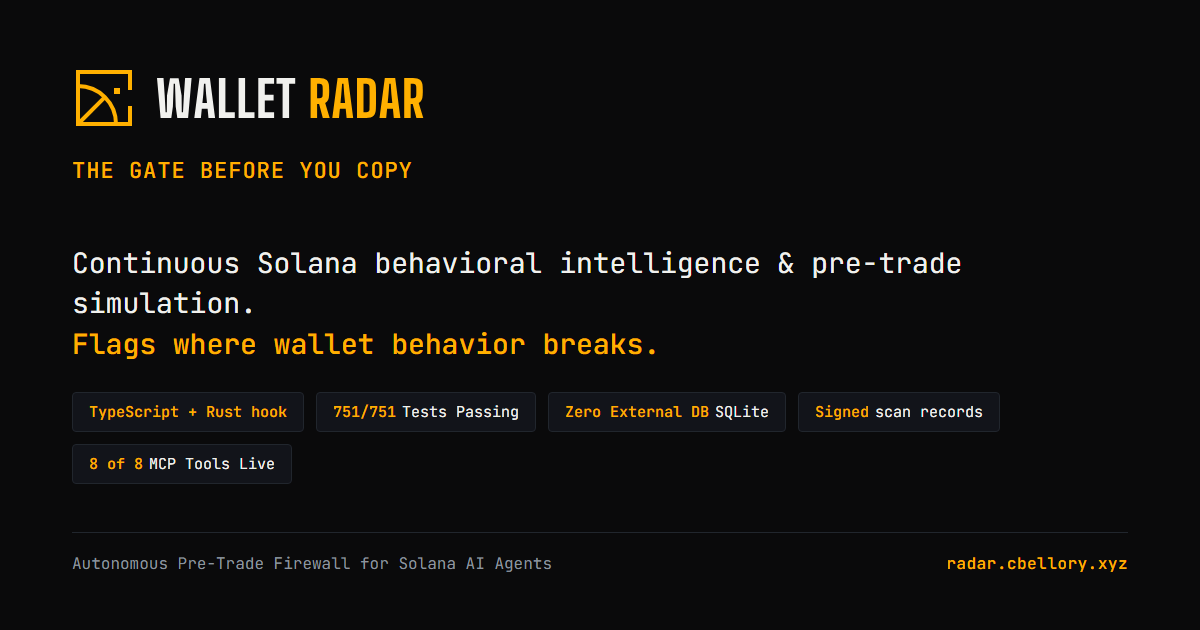
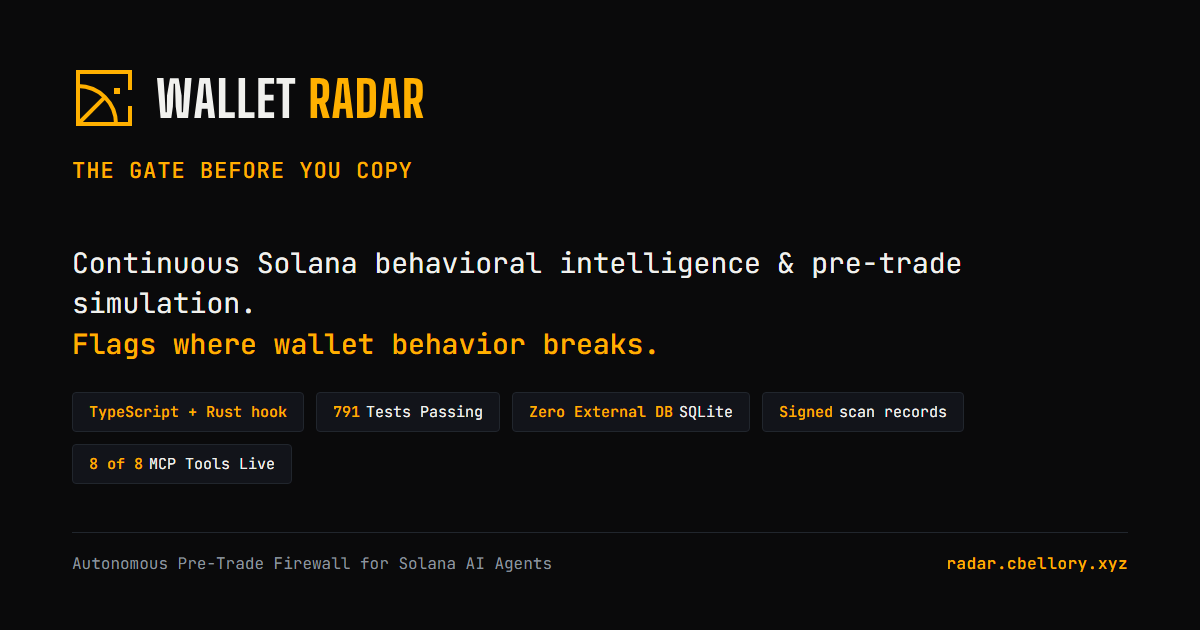
docs: update test counts to 791/46, clarify card claims, and refresh og images

Changed region(s): [[0.2775, 0.6333, 0.8325, 0.6635]]

diff --git a/docs/index.html b/docs/index.html
@@ -66,7 +66,7 @@ footer .gh{color:var(--muted);font-family:Consolas,monospace}
     <span class="chip"><b>Built-in</b> SQLite · Zero External DB</span>
     <span class="chip"><b>ZK</b> on-chain oracle</span>
     <span class="chip"><b>9</b> behavioral rules</span>
-    <span class="chip"><b>751/751</b> tests passing</span>
+    <span class="chip"><b>791 passing</b>, 5 documented known gaps (todo), 46 suites</span>
     <span class="chip"><b>MCP</b> server</span>
   </div>
 </header>
@@ -114,10 +114,10 @@ footer .gh{color:var(--muted);font-family:Consolas,monospace}
   <h2>Built in-window: the Colosseum leap</h2>
   <div class="sub">Beyond the gate — signed scan records and a Light Protocol compressed-ledger integration are implemented; writing them to a live cluster has not been verified (see docs/KNOWN-ISSUES.md). The radar speaks x402, and exposes itself as an agent SDK, a one-tap Solana action, a live dashboard (radar view of detected anomalies, a recorded replay (?demo=replay), the on-chain hook log, and the independent-test timeline; shows behavioral signals, not accuracy), and a Token-2022 transfer hook.</div>
   <div class="pipeline">
-    <div class="step"><div class="k">ZK ORACLE</div><b>On-chain scan ledger</b><span>signed scan records and a Light Protocol compressed-ledger integration are implemented; writing them to a live cluster has not been verified (see docs/KNOWN-ISSUES.md)</span></div>
-    <div class="step"><div class="k">AGENT SDK</div><b>createRadarClient()</b><span>A JS/TS client that calls the x402 server, auto-pays USDC, and returns the result with its on-chain ledger signature.</span></div>
+    <div class="step"><div class="k">ZK ORACLE</div><b>Signed scan ledger</b><span>signed scan records and a Light Protocol compressed-ledger integration are implemented; writing them to a live cluster has not been verified (see docs/KNOWN-ISSUES.md)</span></div>
+    <div class="step"><div class="k">AGENT SDK</div><b>createRadarClient()</b><span>A JS/TS client that calls the x402 server, auto-pays USDC, and returns the result with a signed scan record.</span></div>
     <div class="step"><div class="k">BLINK</div><b>One-tap scan</b><span>A Solana Action / Blink — "Radar scan &lt;addr&gt;" — x402 pay, verdict back, straight from the wallet UI.</span></div>
-    <div class="step"><div class="k">HOOK</div><b>Scan-on-transfer</b><span>A Token-2022 transfer hook scores the transfer on-chain (oracle PDA) — the gate at the moment of transfer.</span></div>
+    <div class="step"><div class="k">HOOK</div><b>Scan-on-transfer</b><span>A Token-2022 transfer hook enforces, at the moment of transfer, a verdict the operator wrote on-chain (devnet).</span></div>
   </div>
   <div style="text-align:center;margin-top:28px;padding:0 16px">
     <a href="dashboard-preview.html" class="chip" style="display:inline-block;padding:9px 20px;font-size:14px;color:var(--ink);background:var(--panel);border:1px solid var(--accent);border-radius:6px;text-decoration:none;font-weight:600">Dashboard preview</a>

diff --git a/scripts/render-video.py b/scripts/render-video.py
@@ -221,7 +221,7 @@ def render_slide_4(lang="ru"):
         ("N/A", "WALK-FORWARD ACCURACY", "Retracted -- independent validation not yet complete", TEXT_MUTED),
         ("N/A", "FALSE BLOCKS ON DEX", "Retracted -- independent validation not yet complete", TEXT_MUTED),
         ("~150 MB", "EDGE NODE RAM FOOTPRINT (RSS, stage 9C measurement)", "Physical Orange Pi (ARM64, Armbian) daemon, continuous monitoring", AMBER),
-        ("751", "PASSING UNIT TESTS", "0 failures · CI regression suite (not an accuracy claim)", GREEN)
+        ("791", "PASSING UNIT TESTS", "5 documented known gaps (todo), 46 suites · CI regression suite", GREEN)
     ]
 
     for i, (val, lbl, subtext, col) in enumerate(stats):

diff --git a/docs/KNOWN-ISSUES.md b/docs/KNOWN-ISSUES.md
@@ -34,7 +34,7 @@ a separate, future change.
   to avoid breaking `test/regime.test.ts`, which also asserts against
   `src/http-server.ts`/`src/mcp.ts` text that stage 9D is not permitted to
   change).
-- **Status:** fixed in branch fixes-a (commit bb1e9bf), not deployed.
+- **Status:** fixed in main (originally branch fixes-a, commit bb1e9bf), not yet deployed to the public servers.
 
 ## DORMANT_ACTIVE observation: the default 7-day trust window may itself manufacture the "dormancy" gap
 
@@ -64,7 +64,7 @@ a separate, future change.
   *any* continuously-active wallet, not just a genuinely dormant one — but
   this has only been reproduced offline, against a synthetic fixture, this
   stage. It has not been checked against real wallet histories.
-- **Status:** fixed in branch `fixes-b` (commit bcdcef1), not deployed.
+- **Status:** fixed in main (originally branch `fixes-b`, commit bcdcef1), not yet deployed to the public servers.
   Added `RadarConfig.dormantMeasure` ("newest" default, unchanged; "first" —
   measures the gap to the evaluated batch's EARLIEST tx instead) and wired
   `"first"` into `trust.ts`'s one `detectAnomalies` call specifically. The
@@ -95,7 +95,7 @@ a separate, future change.
   `TAINTED_FUNDING` will never fire for it.
 - Documented next to the rule's description in README.md (§"9 Deterministic
   Anomaly Rules", the `TAINTED_FUNDING` paragraph).
-- **Status:** fixed in branch `fixes-b` (commit 54a8c6f), not deployed.
+- **Status:** fixed in main (originally branch `fixes-b`, commit 54a8c6f), not yet deployed to the public servers.
   `checkFundingSource` now scans every incoming native transfer in the
   supplied history, firing on the earliest one matching `KNOWN_EXPLOITERS`
   (unmodified) rather than stopping at the first incoming transfer found
@@ -140,7 +140,7 @@ a separate, future change.
   (confirmed via `grep -n "gate-copy" src/x402server.ts` — no match) — so
   it is both unauthenticated-by-default and free, while still incurring
   real Helius API cost.
-- **Status:** fixed in branch fixes-a (commit f816910), not deployed.
+- **Status:** fixed in main (originally branch fixes-a, commit f816910), not yet deployed to the public servers.
 - Update (branch `secaudit2`): the first bullet is stale for the mutating routes. With no `RADAR_API_TOKEN` they now answer 403 instead of being open; see H3 in the "Security audit, branch `secaudit2`" section at the end of this file.
 
 ## `fetchMintMetadata`/`getTokenLargestAccounts` failure silently skips TOXIC_MINT for that mint (fails open)
@@ -153,7 +153,7 @@ a separate, future change.
   // Fetch failed or no metadata: skip rule for this mint` — a mint whose
   metadata fetch failed receives no TOXIC_MINT evaluation at all,
   regardless of its actual risk.
-- **Status:** fixed in branch `fixes-b` (commit 69c1120), not deployed, for
+- **Status:** fixed in main (originally branch `fixes-b`, commit 69c1120), not yet deployed to the public servers, for
   `/gate-copy` and `radar_gate_copy` specifically (the single-mint
   `fetchMintMetadata` lookup these use, not `fetchSwapMintRisk`'s
   batch-map path used by `/scan`/`/trust`, which this entry's `analyzer.ts:780`
@@ -178,7 +178,7 @@ a separate, future change.
   comparing raw token quantities restricted to `MAJOR_MINTS` (SOL/USDC/
   USDT) only (`analyzer.ts:661-681`) — non-major mints get no LARGE_SWAP
   detection at all during a price-feed outage, not stale hardcoded prices.
-- **Status:** fixed in branch `fixes-b` (commit 3feeaba), not deployed.
+- **Status:** fixed in main (originally branch `fixes-b`, commit 3feeaba), not yet deployed to the public servers.
   `BLUECHIP_FALLBACK_PRICES` is explicitly commented as dead-in-production
   (kept only for `scripts/audit/*.mjs`'s offline historical replay, which
   legitimately needs a frozen, reproducible price set — not wired into any
@@ -201,7 +201,7 @@ a separate, future change.
   halt, `transferHook` — arbitrary on-transfer logic, `defaultAccountState`
   — new accounts start frozen) are not read or evaluated by TOXIC_MINT at
   all.
-- **Status:** fixed in branch `fixes-b` (commit 73395bc), not deployed, for
+- **Status:** fixed in main (originally branch `fixes-b`, commit 73395bc), not yet deployed to the public servers, for
   the RPC `getAccountInfo` jsonParsed fallback path specifically (the
   Helius DAS `getAsset` path, `parseDasAssetResponse`, is NOT extended —
   its Token-2022 extensions jsonParsed shape was not independently
@@ -236,7 +236,7 @@ a separate, future change.
   prevents a duplicate database row, not duplicate delivery.
 - Confirmed by reading the code; not exercised under real multi-process
   concurrency (out of scope, no network/process orchestration this stage).
-- **Status:** fixed in branch fixes-a (commit 0e50956), not deployed.
+- **Status:** fixed in main (originally branch fixes-a, commit 0e50956), not yet deployed to the public servers.
 
 ## Payment-verification error message may include `err.message`; whether it can contain the RPC URL (with the API key) is unconfirmed
 
@@ -251,7 +251,7 @@ a separate, future change.
   request URL (and thus the embedded key) — NOT VERIFIED: confirming this
   requires triggering a real network failure against a key-bearing URL,
   which this stage's rules do not permit.
-- **Status:** fixed in branch fixes-a (commit 27145ac), not deployed.
+- **Status:** fixed in main (originally branch fixes-a, commit 27145ac), not yet deployed to the public servers.
 
 ## Transfer Hook: single program upgrade authority, single per-mint config authority, no explicit risk_score bound
 
@@ -295,7 +295,7 @@ a separate, future change.
      `riskScore` (`:68`).
   5. `test/defense.test.ts:62` — "escalates to gated at risk >= gated
      threshold" — same pattern with `DEFENSE_THRESHOLDS.gated` (`:63`).
-- **Status:** fixed in branch fixes-a (commit e0dc8d9), not deployed.
+- **Status:** fixed in main (originally branch fixes-a, commit e0dc8d9), not yet deployed to the public servers.
 
 ## `npm audit`: 12 known vulnerabilities in the dependency tree (9 moderate, 3 high)
 
@@ -405,7 +405,7 @@ responses, user input) through those import sites:
 - HSTS: `Strict-Transport-Security` header is nowhere set in the application (`grep -rn "Strict-Transport-Security" src/` — zero matches); whether it is enabled at the Cloudflare level — per user observation, not enabled on the public server.
 - CORS: `Access-Control-Allow-Origin: *` confirmed by reading code — `src/config.ts:71`, active when `RADAR_CORS_ORIGINS` is not set.
 - Revenue via `/economics` on the public server at the time of user check: 0.005 USDC (single payment) — user observation, not measured by this session.
-- **Status:** fixed in branch fixes-a (commit f816910), not deployed. See
+- **Status:** fixed in main (originally branch fixes-a, commit f816910), not yet deployed to the public servers. See
   `docs/DEPLOY-CHECKLIST.md` (added in branch `fixes-b`) for the full set of
   env vars and verification steps for a public-facing deployment, including
   the explicit list of routes (`/dashboard`, `/economics`, `/trust-proof`,
@@ -419,7 +419,7 @@ responses, user input) through those import sites:
 - (a) Sole payment in the recipient history of `F6wWPy4c3fXTJDqU19Nax8FhQumeMcsSVpD2YwxLpBNR`: 0.005 USDC, 2026-09-18, payer `3fNNY9iEvzmfqt4gTdEmvRKNa9G3mKkHq523uS5t5eYh` (labeled "x402 Payer" in `src/daily-digest.ts:24` — line number verified via `git grep -n "x402 Payer" -- src/daily-digest.ts`, matches). The payment confirms that the payment pipeline (proof → verify → settle) executes on a real transaction; this is **not** external revenue — sole known payment across all time, from the operator's own demo wallet (per project notes).
 - (b) Upgrade authority of the Transfer Hook program on devnet (`4bDZPMF9j3Jm6rUVofT3be6JH67C1tRFBff9MnrsE2EY`) — regular key: `owner` = System Program, `space` = 0, no indication of multisig (Squads, etc.). Not re-verified in this session (network access was not performed in this stage) — source: report 11E.
 - (c) Typo in address: `src/daily-digest.ts:24` contains `"3fNNuJcvV2bYmrh7XjTq7u22C7V6F2qXq8pE4jM5eYh"` — 43 characters. Directly verified in this session (base58 decoding): this string decodes to **31 bytes**, not 32 as required for a valid Solana address; the actual payer address (44 characters, decodes to 32 bytes) is `3fNNY9iEvzmfqt4gTdEmvRKNa9G3mKkHq523uS5t5eYh` (see item (a) above). The strings differ, though visually similar (shared prefix `3fNN`, shared suffix `5eYh`). The same invalid address in the `radar-watch` watchlist produces a Helius 400 error every 5 minutes (per report 11E, not reproduced in this session — network was not used).
-- **Status:** fixed in branch fixes-a (commit 4478183), not deployed. Branch
+- **Status:** fixed in main (originally branch fixes-a, commit 4478183), not yet deployed to the public servers. Branch
   `fixes-b` (commit 295cb24) separately closes the general class of this bug:
   `isValidBase58` (the check used everywhere before `fixes-b`) only verified
   the base58 alphabet and a 32-44 character length range, so a 43-44
@@ -439,7 +439,7 @@ responses, user input) through those import sites:
   - Server now reads `RADAR_X402_COMMITMENT` ("confirmed" or "finalized", default "confirmed"; invalid values logged with warning and fallback to "confirmed"), and passes `commitment` to `getTransaction`.
   - When RPC returns `null`, server retries up to 3 times with 1-second pause (only if signature matches 86-90 base58 characters; malformed signatures fail immediately without retries) before returning 402 with hint `"Transaction not found on-chain (retry in a few seconds if you just paid)"`.
   - SDK polls `getSignatureStatuses` for up to 20 seconds after transaction submission until desired `commitment` is reached, and retries 402 "not found" responses up to 3 times with 2-second delay.
-- **Status:** fixed in branch fixes-c (commit f888112), not deployed. Verified in test suite (`test/x402.test.ts`, `test/sdk.test.ts`, `test/adversarial.test.ts`).
+- **Status:** fixed in main (originally branch fixes-c, commit f888112), not yet deployed to the public servers. Verified in test suite (`test/x402.test.ts`, `test/sdk.test.ts`, `test/adversarial.test.ts`).
 
 ## POST /analyze and 500: Missing input validation prior to payment and internal error leakage
 
@@ -451,7 +451,7 @@ responses, user input) through those import sites:
   - Handler input errors return HTTP 400; unexpected errors return HTTP 500 `"Internal server error"` without internal details. `isInputError` strictly classifies errors by `status === 400`, `statusCode === 400`, or `name === "ValidationError"` / `InputError"` (no message regex matching).
   - Responses with `"paymentVerified": true` and retry hint guarantee no `"api-key"` or `"http"` leakage.
   - If payment is verified but handler fails, response sets `"paymentVerified": true` and hint `"retry with the same signature within <secondsLeft>s"`, keeping the payment unspent (`settled_payments` not marked) so retrying with a corrected body succeeds without re-paying.
-- **Status:** fixed in branch fixes-c (commit b2a85e1, commit 178ee43), not deployed. Verified in test suite (`test/x402.test.ts`, `test/sdk.test.ts`).
+- **Status:** fixed in main (originally branch fixes-c, commit b2a85e1, commit 178ee43), not yet deployed to the public servers. Verified in test suite (`test/x402.test.ts`, `test/sdk.test.ts`).
 
 ## /economics displays operator test payments rather than external protocol revenue
 
@@ -492,7 +492,7 @@ documented there as `todo` tests.
   `maxPaymentUsdc` (default 0.05), USDC only, recipient must equal the configured `recipient` when one is configured.
 - **Note for operators:** a server price above 0.05 USDC (for example `RADAR_SCAN_PRICE_USDC` raised) is now refused
   by default; the client must pass a higher `maxPaymentUsdc`.
-- **Status:** fixed in branch secaudit2 (commit 48e2a3f), not deployed. Test `test/secaudit-sdk-payment.test.ts`.
+- **Status:** fixed in main (originally branch secaudit2, commit 48e2a3f), not yet deployed to the public servers. Test `test/secaudit-sdk-payment.test.ts`.
 
 ### H2 (high): unauthenticated `/dashboard` and `/api/ledger` caused unbounded upstream work and memory growth
 
@@ -501,7 +501,7 @@ documented there as `todo` tests.
   (`src/oracle/ledger.ts`), keyed by an attacker-chosen string.
 - Reachable by any HTTP client in the default configuration when the dashboard route is served.
 - Fix: base58 validation (HTTP 400) before any query on both routes; `anchorCache` capped at 1000 entries.
-- **Status:** fixed in branch secaudit2 (commit 0e38c15), not deployed. Test `test/secaudit-ledger-dos.test.ts`.
+- **Status:** fixed in main (originally branch secaudit2, commit 0e38c15), not yet deployed to the public servers. Test `test/secaudit-ledger-dos.test.ts`.
 
 ### H3 (high): mutating endpoints were open without `RADAR_API_TOKEN`
 
@@ -514,7 +514,7 @@ documented there as `todo` tests.
   `docs/DEPLOY-CHECKLIST.md` section 2a for the callers found in this repository.
 - Statements elsewhere in this file and in `README.md` that every route is authorized without a token are stale for
   these four routes.
-- **Status:** fixed in branch secaudit2 (commit 306ab78), not deployed. Test `test/secaudit-mutating-auth.test.ts`.
+- **Status:** fixed in main (originally branch secaudit2, commit 306ab78), not yet deployed to the public servers. Test `test/secaudit-mutating-auth.test.ts`.
 
 ### H4 (high, only with non-default configuration): anonymous `POST /scan` triggered operator-signed on-chain writes
 
@@ -526,7 +526,7 @@ documented there as `todo` tests.
 - The paid flow in `src/x402server.ts` is unchanged (the write follows a verified payment). The MCP server is
   stdio-only, so its caller is the local client.
 - The oracle-memo branch shares the gate but has no test (it would need network); the hook-bridge branch is tested.
-- **Status:** fixed in branch secaudit2 (commit 2229619), not deployed. Test `test/secaudit-onchain-gate.test.ts`.
+- **Status:** fixed in main (originally branch secaudit2, commit 2229619), not yet deployed to the public servers. Test `test/secaudit-onchain-gate.test.ts`.
 
 ### M1 (medium; high with `RADAR_WATCH=1`): `/scan` enrolled any wallet in the watch loop
 
@@ -540,7 +540,7 @@ documented there as `todo` tests.
   column added and **every existing row is set to watched=1**, so the current watch list is preserved.
 - **Behaviour change:** `radar scan <wallet>` (CLI) no longer adds the wallet to the watch list; use `radar add`.
   `hasWallet()` still means "a row exists" (used by `radar report` / `radar history`).
-- **Status:** fixed in branch secaudit2 (commit 061d7c7), not deployed. Test `test/secaudit-watched.test.ts`.
+- **Status:** fixed in main (originally branch secaudit2, commit 061d7c7), not yet deployed to the public servers. Test `test/secaudit-watched.test.ts`.
 
 ### M2 (medium): Blink complete route could be replayed concurrently
 
@@ -550,7 +550,7 @@ documented there as `todo` tests.
 - Fix: shares `inFlightPayments` with the main paid flow (released in `finally`) and rejects the loser of the INSERT
   race. Test: 5 concurrent requests with one signature give exactly one 200 (it returned five before the fix).
 - The in-flight set is still per-process (see "x402 replay protection is per-process" above).
-- **Status:** fixed in branch secaudit2 (commit a1dbeb6), not deployed. Test `test/secaudit-blink-replay.test.ts`.
+- **Status:** fixed in main (originally branch secaudit2, commit a1dbeb6), not yet deployed to the public servers. Test `test/secaudit-blink-replay.test.ts`.
 
 ## Found, not fixed
 

diff --git a/README.md b/README.md
@@ -4,7 +4,7 @@
 
 > **Continuous behavioral intelligence, pre-trade simulation, and on-chain hard enforcement for the autonomous Solana economy.**
 
-[![Tests](https://img.shields.io/badge/tests-751%20passing%20%7C%2030%20suites-3fb950.svg)](https://github.com/daniilmilintieiev-ux/wallet-radar/tree/main/test)
+[![Tests](https://img.shields.io/badge/tests-791%20passing-3fb950.svg)](https://github.com/daniilmilintieiev-ux/wallet-radar/tree/main/test)
 [![Security Hardening](https://img.shields.io/badge/security%20hardening-11%20internal%20revisions-blue.svg)](https://github.com/daniilmilintieiev-ux/wallet-radar/blob/main/SECURITY.md)
 [![Devnet Program](https://img.shields.io/badge/solana%20devnet-wvN1ky...HwoV-blueviolet.svg)](https://explorer.solana.com/address/wvN1kyvjoFSJq5YqaniVRUm9Tay2wADtMGSayAzHwoV?cluster=devnet)
 [![ZK Compression](https://img.shields.io/badge/light%20protocol-~400x%20less%20locked--up%20rent-ffb000.svg)](https://github.com/daniilmilintieiev-ux/wallet-radar/tree/main/src/oracle)
@@ -313,10 +313,10 @@ npm install
 npm run build
 ```
 
-### 2. Verify System Integrity (751 Tests)
+### 2. Verify System Integrity (791 passing, 5 documented known gaps (todo), 46 suites)
 
 ```bash
-# Run the complete test suite (30 suites, 0 failures)
+# Run the complete test suite (791 passing, 5 documented known gaps (todo), 46 suites)
 npm test
 
 # Run offline smoke selftest (no network or API keys required)
@@ -523,7 +523,7 @@ In strict adherence to Colosseum hackathon rules and open-source transparency, h
 - **On-Chain Devnet Deployment**: Compiled Transfer Hook to SBF, deployed to Solana Devnet (`wvN1kyvjoFSJq5YqaniVRUm9Tay2wADtMGSayAzHwoV`), and verified live revert on flagged accounts (`886579b`, `56d3caa`, `d8f9a92`).
 - **11 Security Audit Revisions**: Comprehensive hardening against front-running, CPI injection, account hijacking, and double-spending (`990bb36`, `93d32f6`, `a4cf128`).
 - **Trust Proof API**: Launched independently verifiable `/trust-proof` cryptographic bundle (`7707e7d`).
-- **Full Test Suite Expansion**: Expanded to **750+ automated tests across 30 test suites (100% pass)**.
+- **Full Test Suite Expansion**: Expanded to **791 passing, 5 documented known gaps (todo), 46 suites**.
 
 ---
 
@@ -586,7 +586,7 @@ Full list with file:line — [docs/KNOWN-ISSUES.md](docs/KNOWN-ISSUES.md). In br
 
 Five reproducible commands (each verified in stages 9B–9E):
 
-1. **Full test suite**: `npm test` → 751/751, 30 suites.
+1. **Full test suite**: `npm test` → 791 passing, 5 documented known gaps (todo), 46 suites.
 2. **Deterministic benchmark**: `npm run radar -- benchmark` → 24/24 on a versioned synthetic fixture set (this is a regression test on the rules themselves, not an independent empirical accuracy benchmark on real data — see "Status of independent evaluation").
 3. **Offline self-test**: `npm run radar -- selftest` → no network or API keys, runs the full detection pipeline on a synthetic wallet.
 4. **Deterministic replay**: `node dist/src/cli.js replay <wallet> --since <unix-ts> --until <unix-ts>` → replays the detector over a historical window of a real wallet; identical input data always yields an identical verdict.
